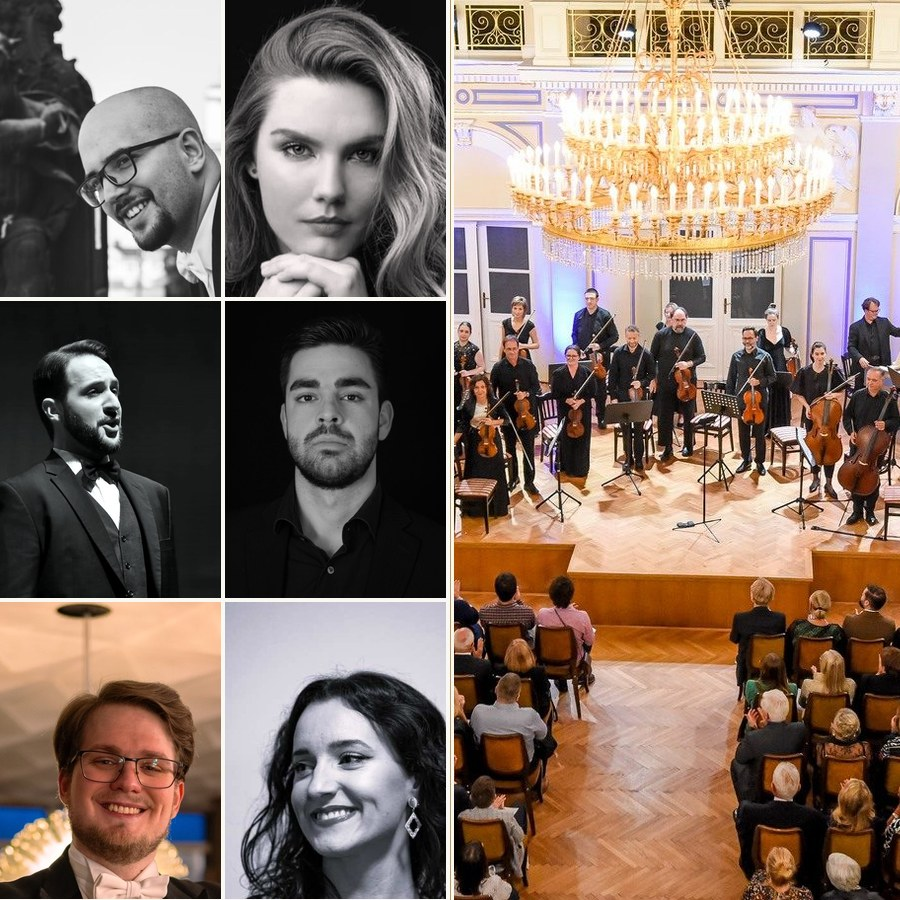
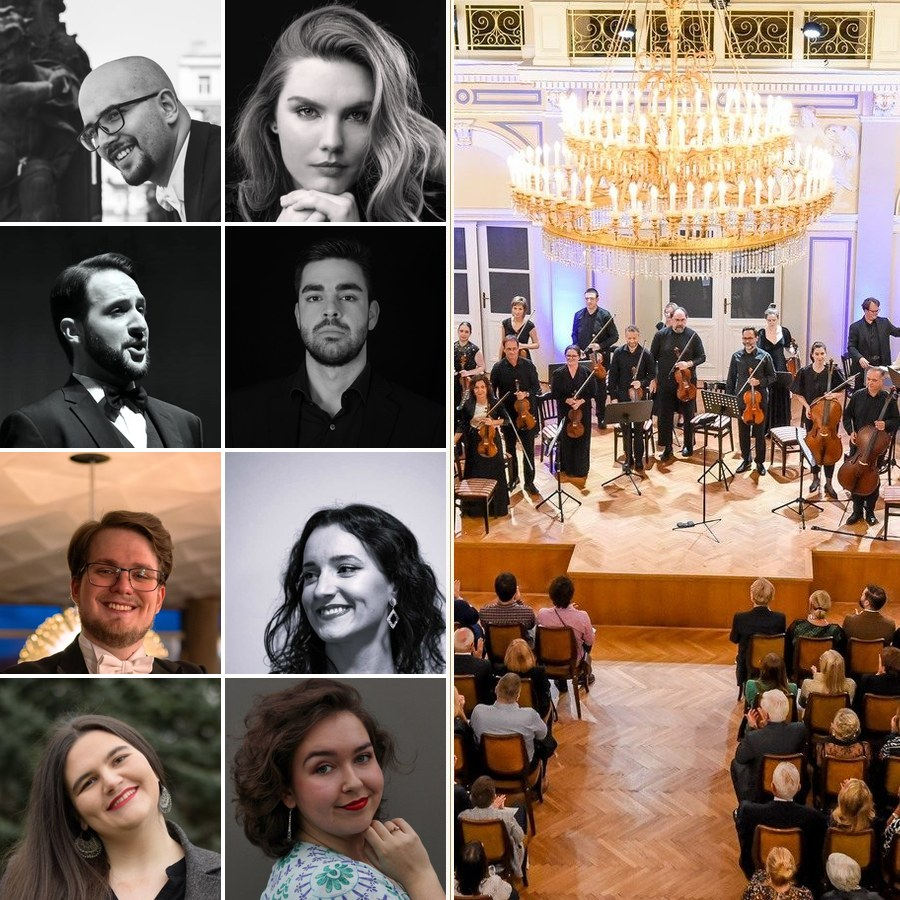
Mashup 13.12.: svi solisti s fotografijom

diff --git a/index.html b/index.html
@@ -54,7 +54,7 @@
         <p>Program: Mozart, Rossini, Donizetti, Purcell, Humperdinck</p>
       </div>
       <div class="aside-col">
-        <figure class="photo next-arch"><img src="img/next-gala-vko.jpg" alt="Solisti opernog gala koncerta i Varaždinski komorni orkestar" loading="lazy"></figure>
+        <figure class="photo next-arch"><img src="img/next-gala-vko.jpg?v=2" alt="Solisti opernog gala koncerta i Varaždinski komorni orkestar" loading="lazy"></figure>
         <p class="cv-link"><a href="#sezona">Upoznajte naše goste <span aria-hidden="true">→</span></a></p>
       </div>
     </div>
@@ -127,7 +127,7 @@
           </div>
         </article>
         <article class="show reveal multi-guest">
-          <figure class="show-thumb round"><img src="img/artists/mashup-1312.jpg" alt="Solisti opernog gala koncerta" loading="lazy"></figure>
+          <figure class="show-thumb round"><img src="img/artists/mashup-1312.jpg?v=2" alt="Solisti opernog gala koncerta" loading="lazy"></figure>
           <div class="date"><b>13</b><span>prosinac 2026.</span></div>
           <div class="info">
             <button type="button" class="show-toggle" aria-expanded="false" aria-controls="koncert-2">
